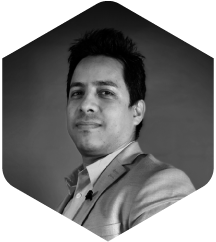
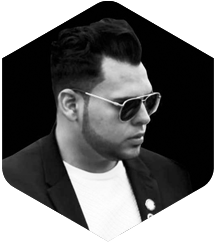
profile ho

diff --git a/docs/home.html b/docs/home.html
@@ -143,7 +143,7 @@
             <div class="container text-center">
                 <div class="row">
                     <div class="col-12 col-md-4 mb-5 px-3">
-                        <div class="d-md-flex align-items-center">
+                        <div class="prof-item p-2 d-md-flex align-items-center">
                             <img class="wow fadeInUp mb-3 mr-2" style="max-width: 240px; height:auto;"
                             data-wow-delay="0.1s" src="./img/profile-01.png" alt="">
                              <h5>
@@ -163,12 +163,12 @@
                         </div>
                     </div>
                     <div class="col-12 col-md-4 mb-5 px-3">
-                        <div class="d-md-flex align-items-center">
+                        <div class="prof-item p-2 d-md-flex align-items-center">
                             <img class="wow fadeInUp mb-3 mr-2" style="max-width: 240px; height:auto;"
-                            data-wow-delay="0.1s" src="./img/profile-02.png" alt="">
+                            data-wow-delay="0.1s" src="./img/profile-03.png" alt="">
                              <h5>
 
-            <Strong class="text-center">Danny Cruz</Strong> <br>
+            <Strong class="text-center">Full name</Strong> <br>
 
             <i>Technology  Consultant</i> 
 
@@ -184,7 +184,7 @@
                         </div>
                     </div>
                     <div class="col-12 col-md-4 mb-5 px-3">
-                        <div class="d-md-flex align-items-center">
+                        <div class="prof-item p-2 d-md-flex align-items-center">
                             <img class="wow fadeInUp mb-3 order-md-2 ml-md-2" style="max-width: 240px; height:auto;"
                             data-wow-delay="0.1s" src="./img/profile-03.png" alt="">
                              <h5>
@@ -206,9 +206,9 @@
                 </div>
                 <div class="row">
                     <div class="col-12 col-md-6 mb-5 px-3">
-                        <div class="row align-items-center">
+                        <div class="row align-items-center mr-md-3">
                             <div class="col-12 col-md-5">
-                                <div class="prof-item">
+                                <div class="prof-item  ">
                                     <img class="wow fadeInUp mb-3 order-md-2 ml-md-2" style="max-width: 240px; height:auto;"
                                     data-wow-delay="0.1s" src="./img/profile-03.png" alt="">
                                      <h5>
@@ -233,28 +233,29 @@
                         </div>
                     </div>
                     <div class="col-12 col-md-6 mb-5 px-3">
-                        <div class="row align-items-center">
+                        <div class="row align-items-center ml-md-3">
                             <div class="col-12 col-md-5 order-md-2">
                                 <div class="prof-item">
                                     <img class="wow fadeInUp mb-3 order-md-2 ml-md-2" style="max-width: 240px; height:auto;"
-                                    data-wow-delay="0.1s" src="./img/profile-03.png" alt="">
+                                    data-wow-delay="0.1s" src="./img/profile-02.png" alt="">
                                      <h5>
 
-                <Strong class="text-center">Full Name</Strong> <br>
+                <Strong class="text-center">Hugo Ortiz</Strong> <br>
 
-                <i>Technology</i> 
+                <i>Technology  Consultant</i> 
 
               </h5>
                                 </div>
                             </div>
                             <div class="col-12 col-md-7">
                                 <div class="text p-1">
-                                    <p class="lead text-left">Lum ad magni debitis, aut recusandae doloremque eveniet. Delectus omnis
-                                        temporibus ad, modi, est, rerum ipsam mollitia vero quasi sint nostrum
-                                        voluptates praesentium optio autem numquam nisi a. Unde molestias pariatur
-                                        amet reiciendis ipsum magni tempora.</p>
-                                    <div class="line-gradient bg-gradient mt-4"
-                                    style="position: relative;"></div>
+                                    <p class="lead text-left">Successful entrepreneur and sales coach with a high passion for new challenges
+                                        and new discoveries in his personal and professional life. Striving to
+                                        always be the best in the sales field. With all his knowledge and experience
+                                        Hugo became a part of KEEED to take the message from the heart of the company
+                                        to the market in such a way that will cause a huge positive impact to millions
+                                        of possible users.</p>
+                                    <div class="line-gradient bg-gradient mt-4" style="position: relative;"></div>
                                 </div>
                             </div>
                         </div>

diff --git a/src/home.html b/src/home.html
@@ -95,7 +95,7 @@
 
     <div class="row">     
       <div class="col-12 col-md-4 mb-5 px-3">
-        <div class="d-md-flex align-items-center">
+        <div class="prof-item p-2 d-md-flex align-items-center">
           <img class="wow fadeInUp mb-3 mr-2" style="max-width: 240px; height:auto;"  data-wow-delay="0.1s"  src="./img/profile-01.png" alt="">
           <h5>
             <Strong class="text-center">Omar Urbina</Strong> <br>
@@ -108,10 +108,10 @@
         </div>               
       </div>   
       <div class="col-12 col-md-4 mb-5 px-3">
-        <div class="d-md-flex align-items-center">
-          <img class="wow fadeInUp mb-3 mr-2" style="max-width: 240px; height:auto;"  data-wow-delay="0.1s"  src="./img/profile-02.png" alt="">
+        <div class="prof-item p-2 d-md-flex align-items-center">
+          <img class="wow fadeInUp mb-3 mr-2" style="max-width: 240px; height:auto;"  data-wow-delay="0.1s"  src="./img/profile-03.png" alt="">
           <h5>
-            <Strong class="text-center">Danny Cruz</Strong> <br>
+            <Strong class="text-center">Full name</Strong> <br>
             <i>Technology  Consultant</i> 
           </h5> 
         </div>
@@ -121,7 +121,7 @@
         </div>               
       </div>
       <div class="col-12 col-md-4 mb-5 px-3">
-        <div class="d-md-flex align-items-center">          
+        <div class="prof-item p-2 d-md-flex align-items-center">          
           <img class="wow fadeInUp mb-3 order-md-2 ml-md-2" style="max-width: 240px; height:auto;"  data-wow-delay="0.1s"  src="./img/profile-03.png" alt="">
           <h5>
             <Strong class="text-center">Full Name</Strong> <br>
@@ -136,9 +136,9 @@
     </div>
     <div class="row">
       <div class="col-12 col-md-6 mb-5 px-3">
-        <div class="row align-items-center">
+        <div class="row align-items-center mr-md-3">
           <div class="col-12 col-md-5">
-            <div class="prof-item">          
+            <div class="prof-item  ">          
               <img class="wow fadeInUp mb-3 order-md-2 ml-md-2" style="max-width: 240px; height:auto;"  data-wow-delay="0.1s"  src="./img/profile-03.png" alt="">
               <h5>
                 <Strong class="text-center">Full Name</Strong> <br>
@@ -155,19 +155,19 @@
         </div>        
       </div>
       <div class="col-12 col-md-6 mb-5 px-3">
-        <div class="row align-items-center">
+        <div class="row align-items-center ml-md-3">
           <div class="col-12 col-md-5 order-md-2">
             <div class="prof-item">          
-              <img class="wow fadeInUp mb-3 order-md-2 ml-md-2" style="max-width: 240px; height:auto;"  data-wow-delay="0.1s"  src="./img/profile-03.png" alt="">
+              <img class="wow fadeInUp mb-3 order-md-2 ml-md-2" style="max-width: 240px; height:auto;"  data-wow-delay="0.1s"  src="./img/profile-02.png" alt="">
               <h5>
-                <Strong class="text-center">Full Name</Strong> <br>
-                <i>Technology</i> 
+                <Strong class="text-center">Hugo Ortiz</Strong> <br>
+                <i>Technology  Consultant</i> 
               </h5>
             </div>
           </div>
           <div class="col-12 col-md-7">
             <div class="text p-1">          
-              <p class="lead text-left">Lum ad magni debitis, aut recusandae doloremque eveniet. Delectus omnis temporibus ad, modi, est, rerum ipsam mollitia vero quasi sint nostrum voluptates praesentium optio autem numquam nisi a. Unde molestias pariatur amet reiciendis ipsum magni tempora.</p>
+              <p class="lead text-left">Successful entrepreneur and sales coach with a high passion for new challenges and new discoveries in his personal and professional life. Striving to always be the best in the sales field. With all his knowledge and experience Hugo became a part of KEEED to take the message from the heart of the company to the market in such a way that will cause a huge positive impact to millions of possible users.</p>
               <div class="line-gradient bg-gradient mt-4" style="position: relative;"></div>
             </div> 
           </div>
